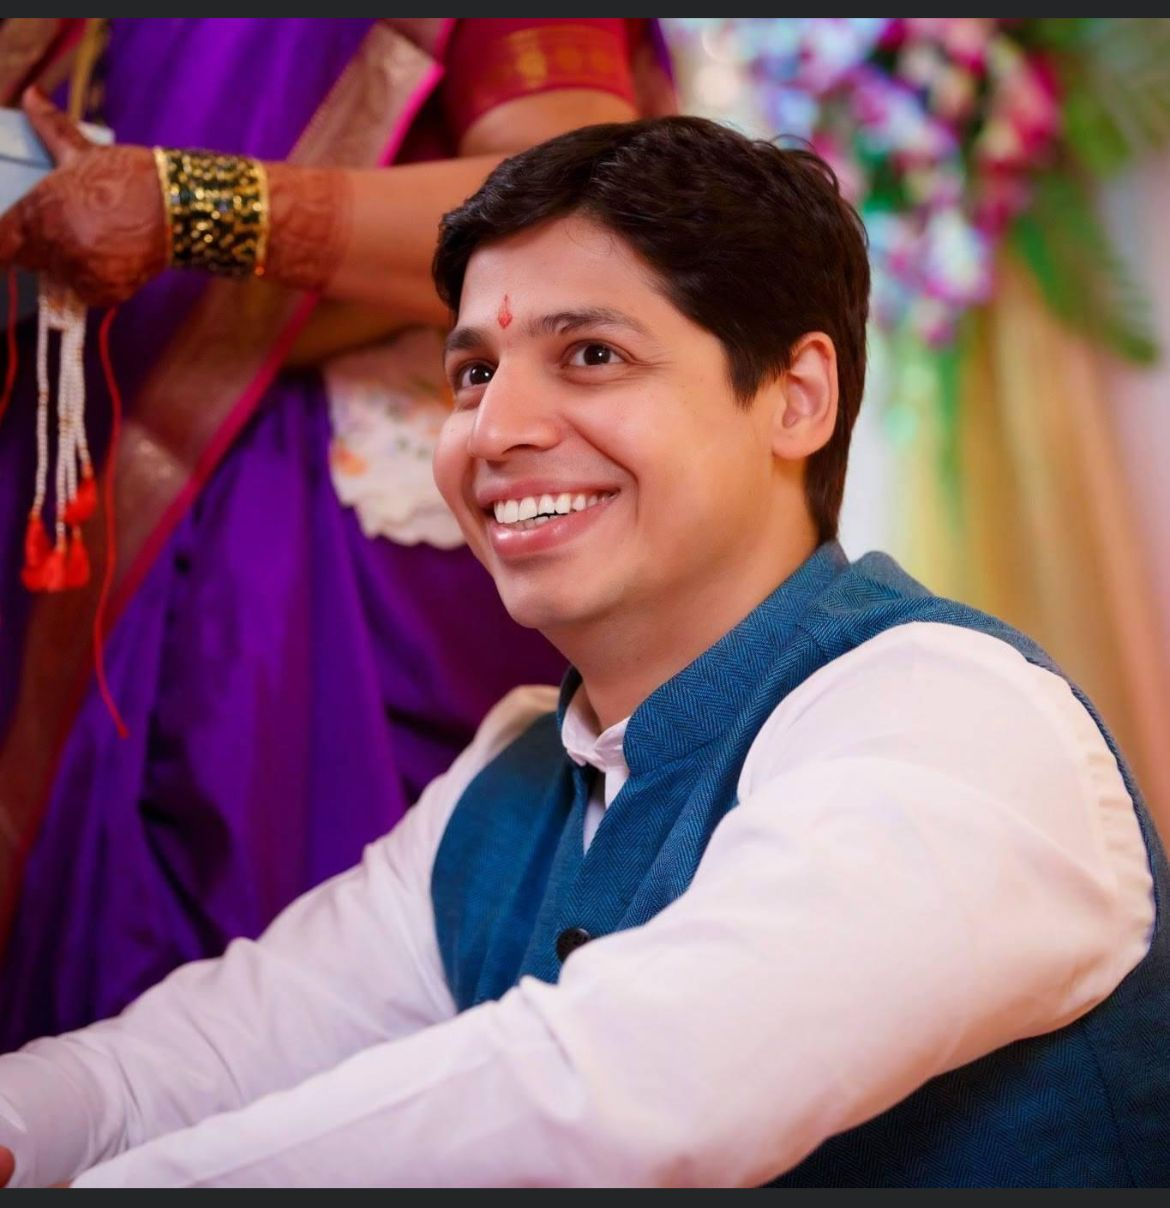
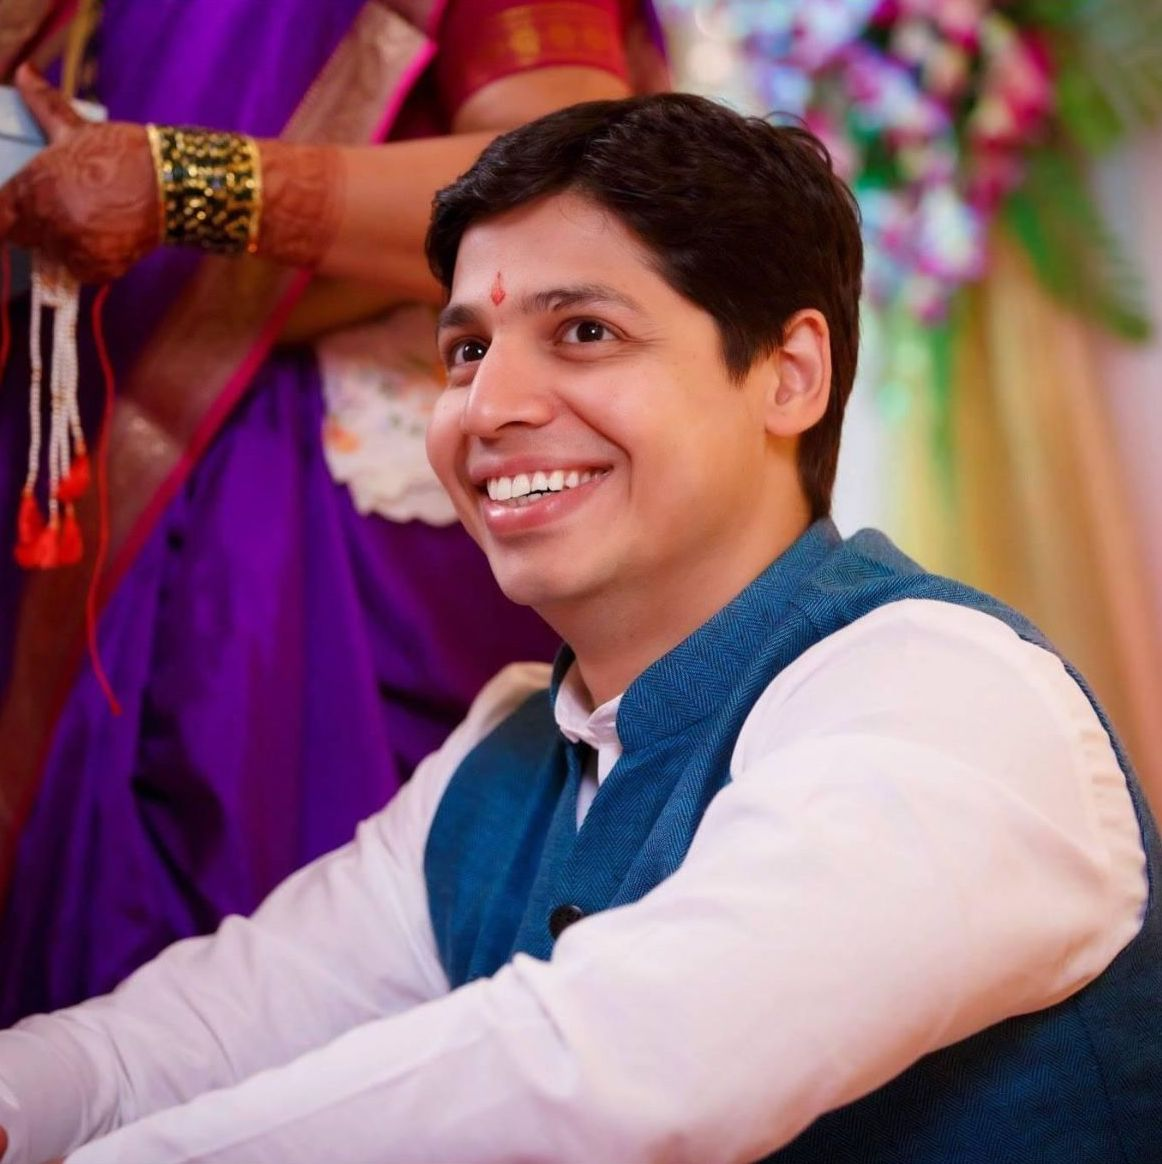
Add Guruji page

diff --git a/guruji.html b/guruji.html
@@ -1,48 +1,79 @@
 <!DOCTYPE html>
 <html lang="en">
-<head>
-    <meta charset="UTF-8">
-    <meta http-equiv="X-UA-Compatible" content="IE=edge">
-    <meta name="viewport" content="width=device-width, initial-scale=1.0">
-    <title>Image & Text Layout</title>
-    <style>
-        /* Styles */
-        .container {
-            display: flex;
-            align-items: center; /* Vertically align content */
-            padding: 20px;
-        }
+   <head>
+      <title>Guruji</title>
+      <meta charset="UTF-8">
+      <meta http-equiv="X-UA-Compatible" content="IE=edge">
+      <meta name="viewport" content="width=device-width, initial-scale=1.0">
+      <link rel="stylesheet" href="style.css">
+      <link rel="stylesheet" href="services_style.css">
+      <link rel="stylesheet" href="https://cdnjs.cloudflare.com/ajax/libs/materialize/1.0.0/css/materialize.min.css">
+      <link href="https://fonts.googleapis.com/icon?family=Material+Icons" rel="stylesheet">
+      <link rel="stylesheet" href="https://cdnjs.cloudflare.com/ajax/libs/font-awesome/5.15.4/css/all.min.css">
+   </head>
+   <body>
+      <header>
+         <nav>
+            <div class="nav-wrapper">
+                <a href="#" data-target="mobile-demo" class="sidenav-trigger"><i class="material-icons">menu</i></a>
+                <ul class="center-align hide-on-med-and-down">
+                    <li><a href="index.html">Home</a></li>
+                    <li><a href="services.html">Services</a></li>
+                    <li><a href="downloads.html">Downloads</a></li>
+                    <li><a href="guruji.html">Guruji</a></li>
+                    <li><a href="faqs.html">FAQs</a></li>
+                    <li><a href="contact.html">Contact</a></li>
+                </ul>
+            </div>
+        </nav>
+        
+        <!-- Sidenav for Mobile -->
+        <ul class="sidenav" id="mobile-demo">
+            <li><a href="index.html">Home</a></li>
+            <li><a href="services.html">Services</a></li>
+            <li><a href="downloads.html">Downloads</a></li>
+            <li><a href="guruji.html">Guruji</a></li>
+            <li><a href="faqs.html">FAQs</a></li>
+            <li><a href="contact.html">Contact</a></li>
+        </ul>
+      </header>
+      <div class="section">
+         <div class="container">
+            <h1 class="center-align">Guruji</h1>
+            <div class="row">
+               <div class="col s12 m6">
+                  <img src="guruji.jpeg" alt="Our Services" class="responsive-img">
+               </div>
+               <div class="col s12 m6">
+                  <!-- <h4>Service Title</h4> -->
+                  <p>
+                    The San Francisco Bay Area is a diverse region with a rich history of immigrant communities. Among these communities are the Marathi-speaking people from Maharashtra, India. The Marathi community has been present in the Bay Area for several decades and has made significant contributions to the region's cultural landscape.
 
-        .image-container {
-            flex: 1;  /* Take up half the space */
-            padding: 20px;
-        }
-
-        .text-container {
-            flex: 1;  /* Take up half the space */
-            padding: 20px;
-            font-family: Arial, sans-serif;
-        }
-
-        img {
-            max-width: 100%;  /* Ensure image doesn't overflow container */
-            border-radius: 8px;  /* Optional rounded corners */
-        }
-    </style>
-</head>
-<body>
-    <div class="container">
-        <!-- Image on the left -->
-        <div class="image-container">
-            <img src="https://via.placeholder.com/300" alt="Sample Image">
-        </div>
-
-        <!-- Paragraph on the right -->
-        <div class="text-container">
-            <p>
-                Lorem ipsum dolor sit amet, consectetur adipiscing elit. Vivamus lacinia odio vitae vestibulum. Donec in efficitur leo. Integer nec felis purus. Nullam sed pellentesque elit, nec congue lacus. Sed a dolor at justo mattis cursus. Vestibulum ante ipsum primis in faucibus orci luctus et ultrices posuere cubilia curae; Praesent pellentesque, erat ut consequat pulvinar, ante purus hendrerit massa, dapibus volutpat nunc diam sit amet augue.
-            </p>
-        </div>
-    </div>
-</body>
+                    The term "Gurujis" in a Marathi context typically refers to learned individuals, scholars, or teachers, especially those who teach or have deep knowledge about Marathi culture, language, literature, and traditions. Here are some potential roles and contributions of such gurujis within the Bay Area Marathi community:
+                    
+                   <ul>
+                    <li>1. Language and Literature: Many Marathi gurujis might be involved in teaching the Marathi language, especially to the younger generation. They might also conduct lectures or seminars on Marathi literature, including the works of famous Marathi poets and writers like P. L. Deshpande, Sant Eknath, Sant Dnyaneshwar, and others.
+                    </li>
+                    <br>
+                   <li> 2. Music and Arts: The Marathi community has a rich tradition of music, dance, and theater. Gurujis in this domain might teach classical music, Natya Sangeet (a form of Marathi musical theater), Lavani (a dance form), or Bhavageet (light Marathi songs). They might also organize or participate in programs like "Natyamahotsav" (theater festivals) or "Sangeet Sandhya" (musical evenings).
+                </li>
+                <br>
+                    <li>3. Religious and Spiritual Teachings: Some gurujis might be involved in imparting knowledge about Marathi religious practices, festivals, and traditions. They could provide insights into the teachings of famous Marathi saints like Sant Tukaram, Sant Namdev, and others. They might also conduct or lead religious ceremonies, pujas, and bhajans.
+                    </li>
+                    </ul> 
+                    In the Bay Area, organizations like the "Bay Area Marathi Mandal" or other cultural associations might be associated with such gurujis or offer programs and events that they lead. However, it's essential to note that while the Bay Area has a thriving Marathi community, not every Marathi person might be connected with or even aware of these gurujis. The concept of a guru or teacher is deeply respected in Indian culture, and those who take on such roles in the diaspora often do so out of a passion for preserving and sharing their cultural heritage.
+                  </p>
+               </div>
+            </div>
+         </div>
+      </div>
+      <!-- Compiled and minified JavaScript -->
+      <script src="https://cdnjs.cloudflare.com/ajax/libs/materialize/1.0.0/js/materialize.min.js"></script>
+      <script>
+         document.addEventListener('DOMContentLoaded', function() {
+             var elems = document.querySelectorAll('.sidenav');
+             var instances = M.Sidenav.init(elems);
+         });
+      </script>
+   </body>
 </html>

diff --git a/index.html b/index.html
@@ -70,7 +70,7 @@
          </footer>
          <!-- Rest of your HTML content here -->
       </div>
-      <a href="https://wa.me/+16503149836?text=Hello!%20I%20have%20an%20inquiry%20about%20your%20business." id="whatsapp-bubble">
+      <a href="https://wa.me/+16503149836?text=" id="whatsapp-bubble">
       <i class="fab fa-whatsapp"></i>
       </a>
       <!-- <div id="side-menu-button" onclick="toggleMenu()">
